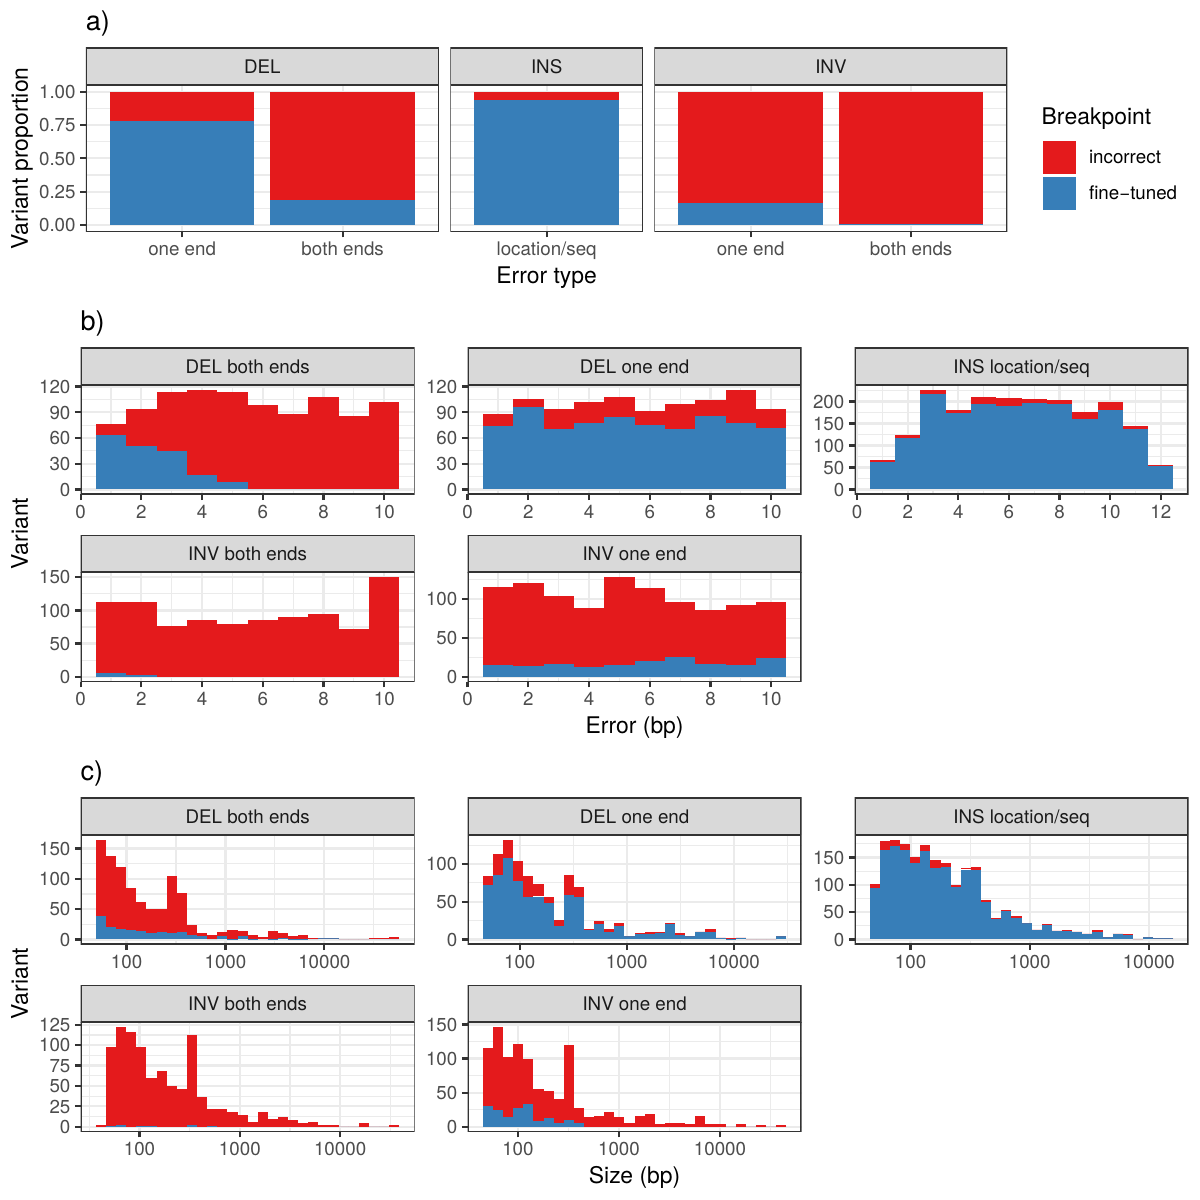
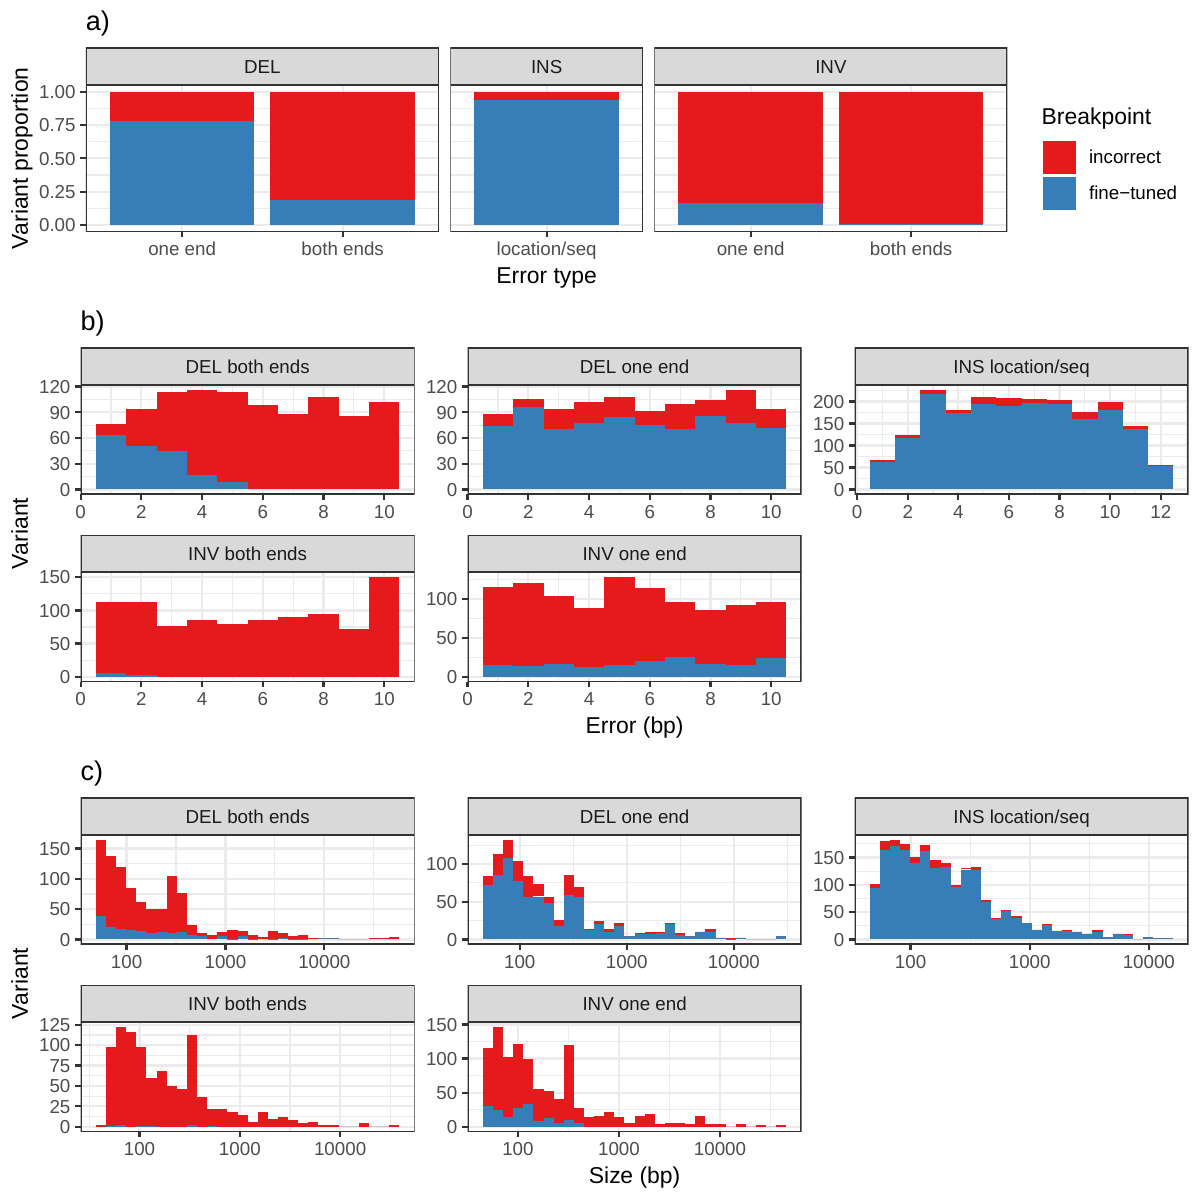
fixed sim fig1b

Changed region(s): [[0.4933, 0.9558, 0.555, 0.9867], [0.8942, 0.0925, 0.925, 0.1233], [0.4625, 0.2158, 0.4933, 0.2467]]

diff --git a/content/03.results.md b/content/03.results.md
@@ -13,16 +13,13 @@ We rigorously evaluated the accuracy of our method on a variety of datasets, and
 a) vg uses the read coverage over possible paths to genotype variants in a "bubble" (or snarl). The cartoon depicts the case of an heterozygous insertion and an homozygous deletion. The algorithm is described in more details in [Methods](#toil-vg-call).
 b) Simulation experiment. Each subplot shows a comparison of genotyping accuracy for four SV calling methods. Results are separated between types of variation (insertions, deletions, and inversions). The experiments were also repeated with small random errors introduced to the variant locations to simulate breakpoint uncertainty (1-10bp). For each experiment, the y-axis shows the maximum F1 across different minimum quality thresholds.
 SVTyper cannot genotype insertions, hence the missing line in the top panels.
-[//]: # (I think it would be better if SVTyper was removed from the insertion plots, similar to figure 2.)
 ](images/panel1.png){#fig:1}
-[//]: # (You use best F1 in figure 2 and F1 here.)
 
 ### Simulated dataset
 
 As a proof-of-concept, we simulated genomes and different types of SVs with a size distribution matching real SVs[@tag:hgsvc].
 We compared vg against SVTyper, Delly, and BayesTyper across different levels of sequencing depth.
 We also added some errors (1-10bp) to the location of the breakpoints to investigate their effect on genotyping accuracy (see [Methods](#simulation-experiment)).
-[//]: # (We are only talking about brakpoint location right? And not mutations around the breakpoint?)
 The results are shown in Figure {@fig:1}b.
 
 When using the correct breakpoints, vg tied with Delly as the best genotyper for deletions, and with BayesTyper as the best genotyper for insertions.
@@ -92,7 +89,7 @@ As before, other methods produced lower F1 scores in most cases, although Delly 
 A recent study by Audano et al. generated an SV catalog using long-read sequencing across 15 individuals[@tag:audano2019].
 These variants were then genotyped from short reads across 440 individuals using SMRT-SV2, a machine learning-based genotyper implemented for that study.
 SMRT-SV2 was trained on a pseudo-diploid genome constructed from high quality assemblies of two haploid cell lines.
-We first called SVs in this dataset, using the same SV catalog and short read dataset.
+To compare vg and SMRT-SV v2, we first called SVs in this dataset, using the same SV catalog and short read dataset.
 vg was systematically better at predicting the presence of an SV for both SV types, but SMRT-SV2 produced better genotypes for deletions (see Figures {@fig:chmpd-svpop}, {@fig:chmpd-geno} and {@fig:chmpd}, and Table {@tbl:chmpd}). 
 
 Using publicly available Illumina reads, we then genotyped SVs in 3 of the 15 individuals that were used for discovery in Audano et al.[@tag:audano2019].
@@ -102,7 +99,6 @@ Interestingly, vg performed well even in regions where SMRT-SV2 produced *no-cal
 Finally, Audano et al. identified 217 sequence-resolved inversions.
 vg correctly predicted the presence of around 14% of the inversions present in the three samples (Table {@tbl:svpop}).
 Inversions are often complex, harboring additional variation that makes their characterization and genotyping challenging.
-[//]: # (It might be worth mentioning why you only compare against SMRT-SV2 in this section and not other methods, delly etc.)
 
 ![**Structural variants from Audano et al.[@tag:audano2019]**.
 The pseudo-diploid genome built from CHM cell lines was originally used to train SMRT-SV2 in Audano et al.[@tag:audano2019].

diff --git a/figures/tables/simerror-geno-F1-mean-diff-truthVsErrors.md b/figures/tables/simerror-geno-F1-mean-diff-truthVsErrors.md
@@ -6,7 +6,6 @@
 |BayesTyper |INS  |        0.422|       0.726|
 |BayesTyper |DEL  |        0.804|       0.975|
 |BayesTyper |INV  |        0.737|       0.984|
-|SVTyper    |INS  |        0.000|       0.000|
 |SVTyper    |DEL  |        0.122|       0.161|
 |SVTyper    |INV  |        0.062|       0.084|
 |Delly      |INS  |        0.489|       0.553|
